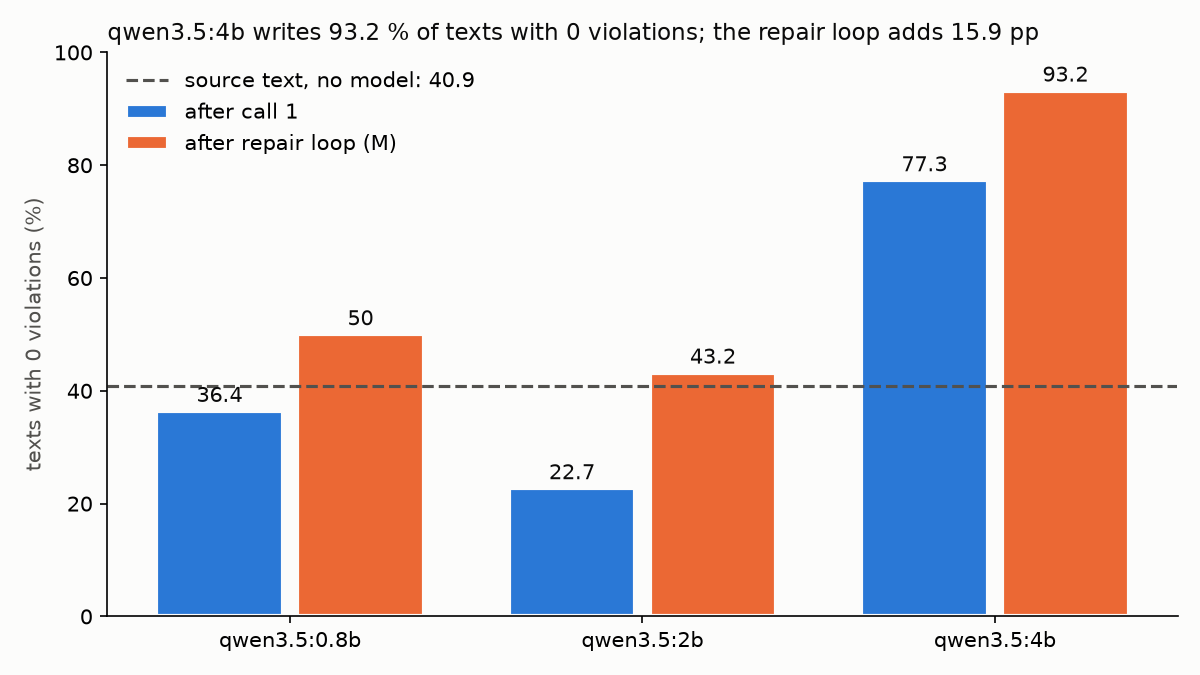
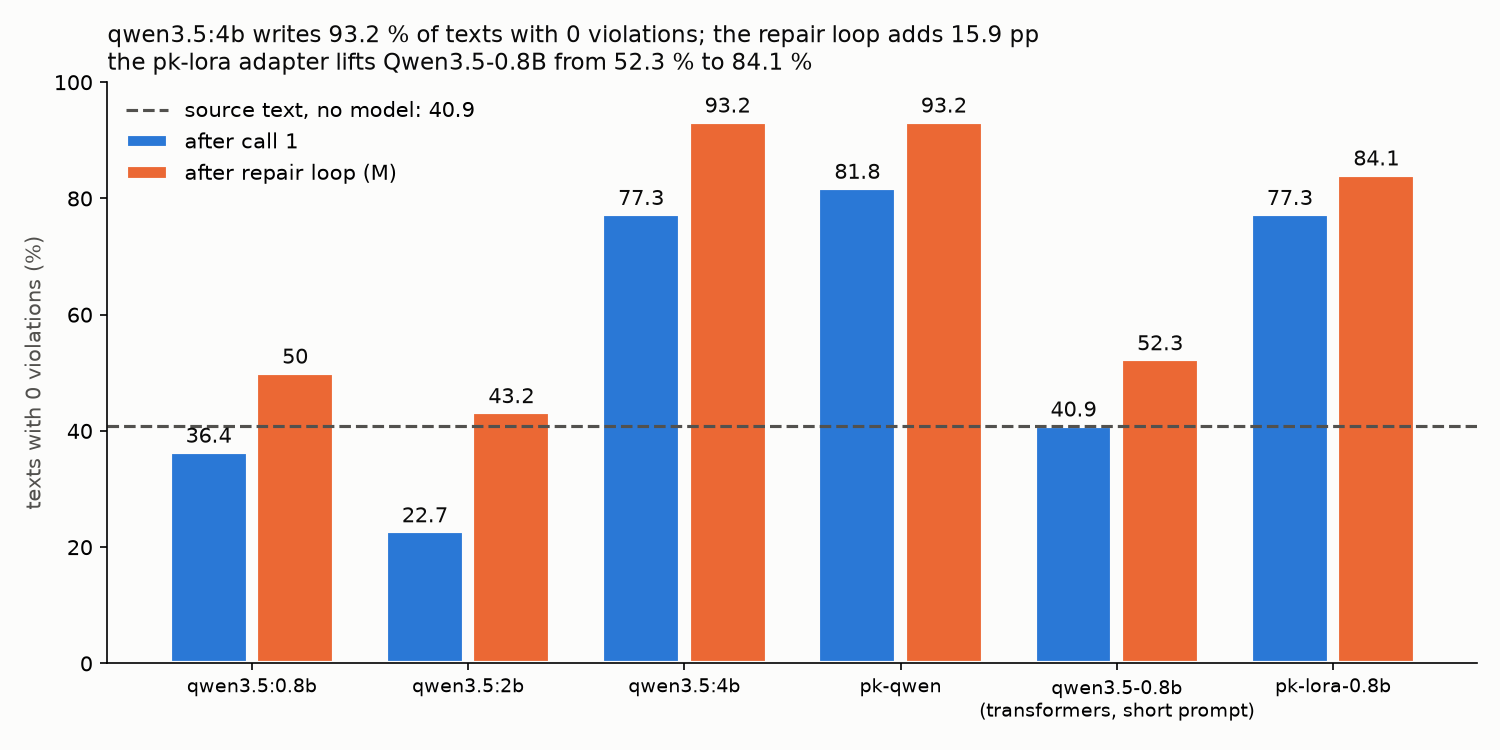
Add pk-qwen evaluation; order summary rows and chart the LoRA result

diff --git a/eval/run_eval.py b/eval/run_eval.py
@@ -13,7 +13,6 @@ from __future__ import annotations
 
 import csv
 import json
-import re
 import sys
 import time
 import urllib.request
@@ -120,9 +119,11 @@ def mean(xs):
     return round(sum(xs) / len(xs), 2)
 
 
-def size_key(model):
-    m = re.search(r":(\d+(?:\.\d+)?)b", model)
-    return float(m.group(1)) if m else 0.0
+ORDER = ["qwen3.5:0.8b", "qwen3.5:2b", "qwen3.5:4b", "pk-qwen", "qwen3.5-0.8b-hf-short", "pk-lora-0.8b"]
+
+
+def order_key(model):
+    return ORDER.index(model) if model in ORDER else len(ORDER)
 
 
 def summarize():
@@ -149,7 +150,7 @@ def summarize():
             "pklint_clean_loop_pct": pct([not rw.violations(rec["text"]) for rec in recs]),
             "chrf_source_loop": mean([chrf(rec["text"], rec["nat"]) for rec in recs]),
         })
-    rows[1:] = sorted(rows[1:], key=lambda r: size_key(r["model"]))
+    rows[1:] = sorted(rows[1:], key=lambda r: order_key(r["model"]))
     (RESULTS / "summary.json").write_text(json.dumps(rows, indent=2, ensure_ascii=False) + "\n", encoding="utf-8")
     cols = [("model", "Model"), ("n", "Texts"), ("clean_first_pct", "0 violations after call 1 (%)"),
             ("clean_loop_pct", "0 violations after loop, M (%)"), ("mean_rounds", "Mean rounds"),
@@ -174,8 +175,12 @@ def chart(rows):
     gain = round(best["clean_loop_pct"] - best["clean_first_pct"], 1)
     title = (f"{best['model']} writes {best['clean_loop_pct']:g} % of texts with 0 violations;"
              f" the repair loop adds {gain:g} pp")
+    by_name = {r["model"]: r for r in models}
+    if {"qwen3.5-0.8b-hf-short", "pk-lora-0.8b"} <= by_name.keys():
+        title += (f"\nthe pk-lora adapter lifts Qwen3.5-0.8B from {by_name['qwen3.5-0.8b-hf-short']['clean_loop_pct']:g} %"
+                  f" to {by_name['pk-lora-0.8b']['clean_loop_pct']:g} %")
     x = range(len(models))
-    fig, ax = plt.subplots(figsize=(8, 4.5), facecolor="#fcfcfb")
+    fig, ax = plt.subplots(figsize=(10, 5), facecolor="#fcfcfb")
     ax.set_facecolor("#fcfcfb")
     for off, key, color, label in ((-0.2, "clean_first_pct", "#2a78d6", "after call 1"),
                                    (0.2, "clean_loop_pct", "#eb6834", "after repair loop (M)")):
@@ -184,7 +189,7 @@ def chart(rows):
         ax.bar_label(bars, labels=[f"{v:g}" for v in vals], padding=2, color="#0b0b0b")
     ax.axhline(base["clean_first_pct"], color="#52514e", linestyle="--", linewidth=1.5,
                label=f"source text, no model: {base['clean_first_pct']:g}")
-    ax.set_xticks(list(x), [r["model"] for r in models])
+    ax.set_xticks(list(x), [r["model"].replace("-hf-short", "\n(transformers, short prompt)") for r in models], fontsize=9)
     ax.set_ylabel("texts with 0 violations (%)", color="#52514e")
     ax.set_ylim(0, 100)
     ax.spines[["top", "right"]].set_visible(False)

diff --git a/eval/results/summary.md b/eval/results/summary.md
@@ -4,3 +4,6 @@
 | qwen3.5:0.8b | 44 | 36.4 | 50.0 | 2.16 | 29.86 | 30.64 | 27.66 | 7.3 |
 | qwen3.5:2b | 44 | 22.7 | 43.2 | 2.36 | 37.6 | 38.87 | 46.16 | 7.6 |
 | qwen3.5:4b | 44 | 77.3 | 93.2 | 1.34 | 41.55 | 42.24 | 44.4 | 5.1 |
+| pk-qwen | 44 | 81.8 | 93.2 | 1.27 | 39.39 | 39.58 | 45.01 | 5.0 |
+| qwen3.5-0.8b-hf-short | 44 | 40.9 | 52.3 | 2.09 | 51.13 | 50.44 | 14.73 | 3.5 |
+| pk-lora-0.8b | 44 | 77.3 | 84.1 | 1.39 | 42.27 | 41.96 | 9.9 | 3.4 |
